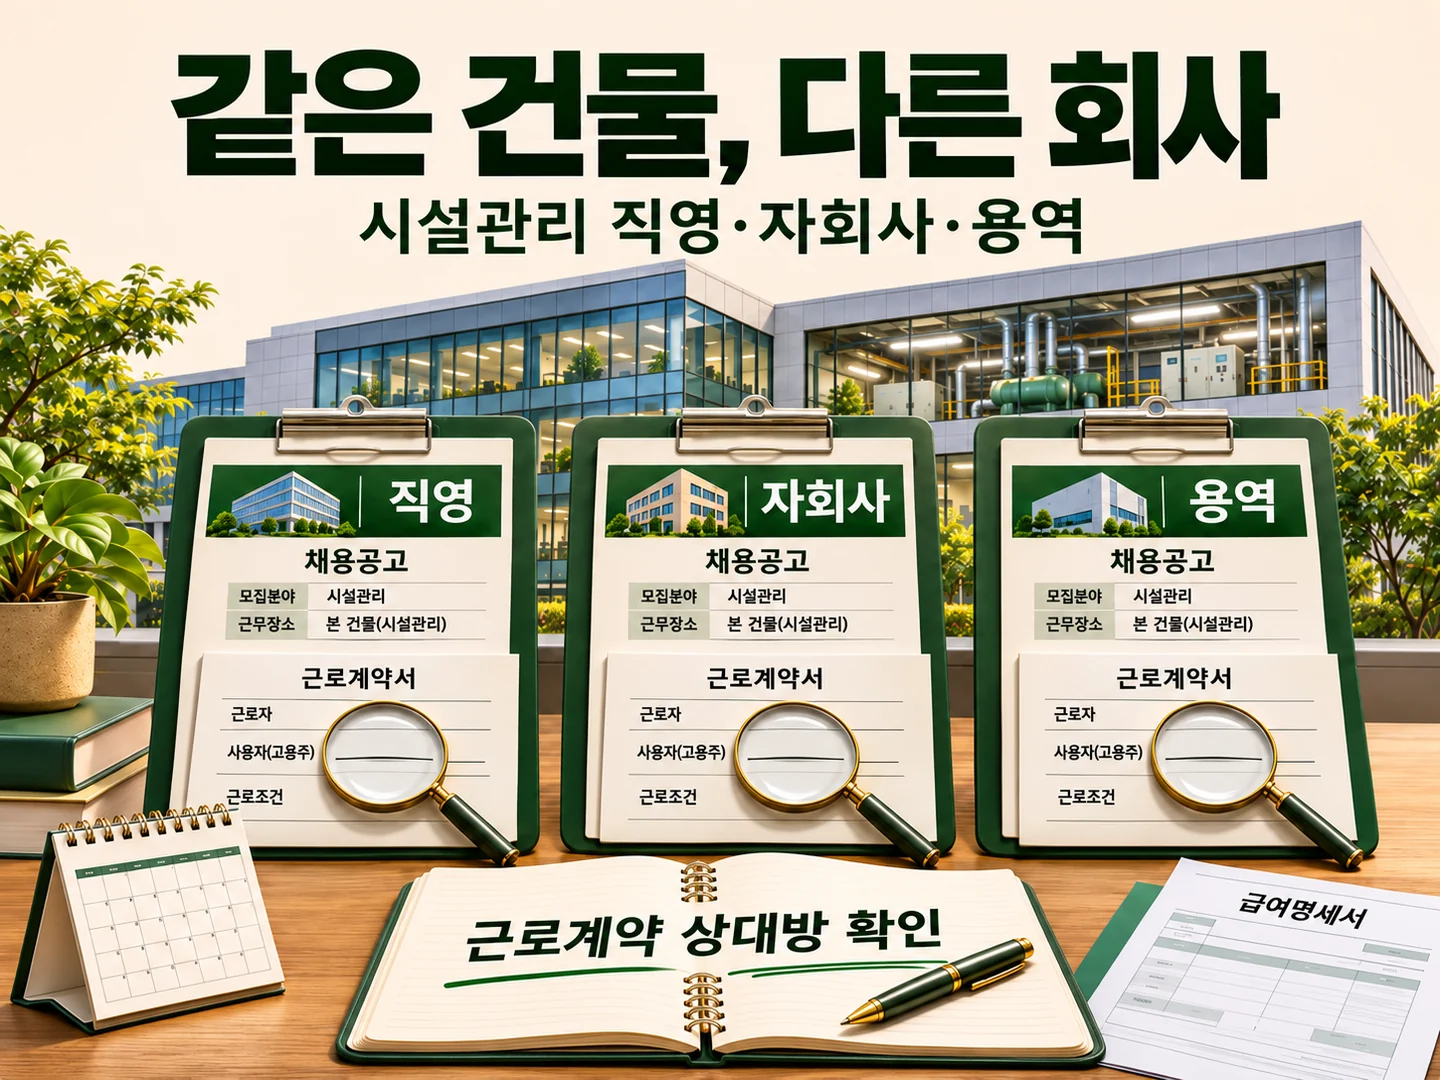
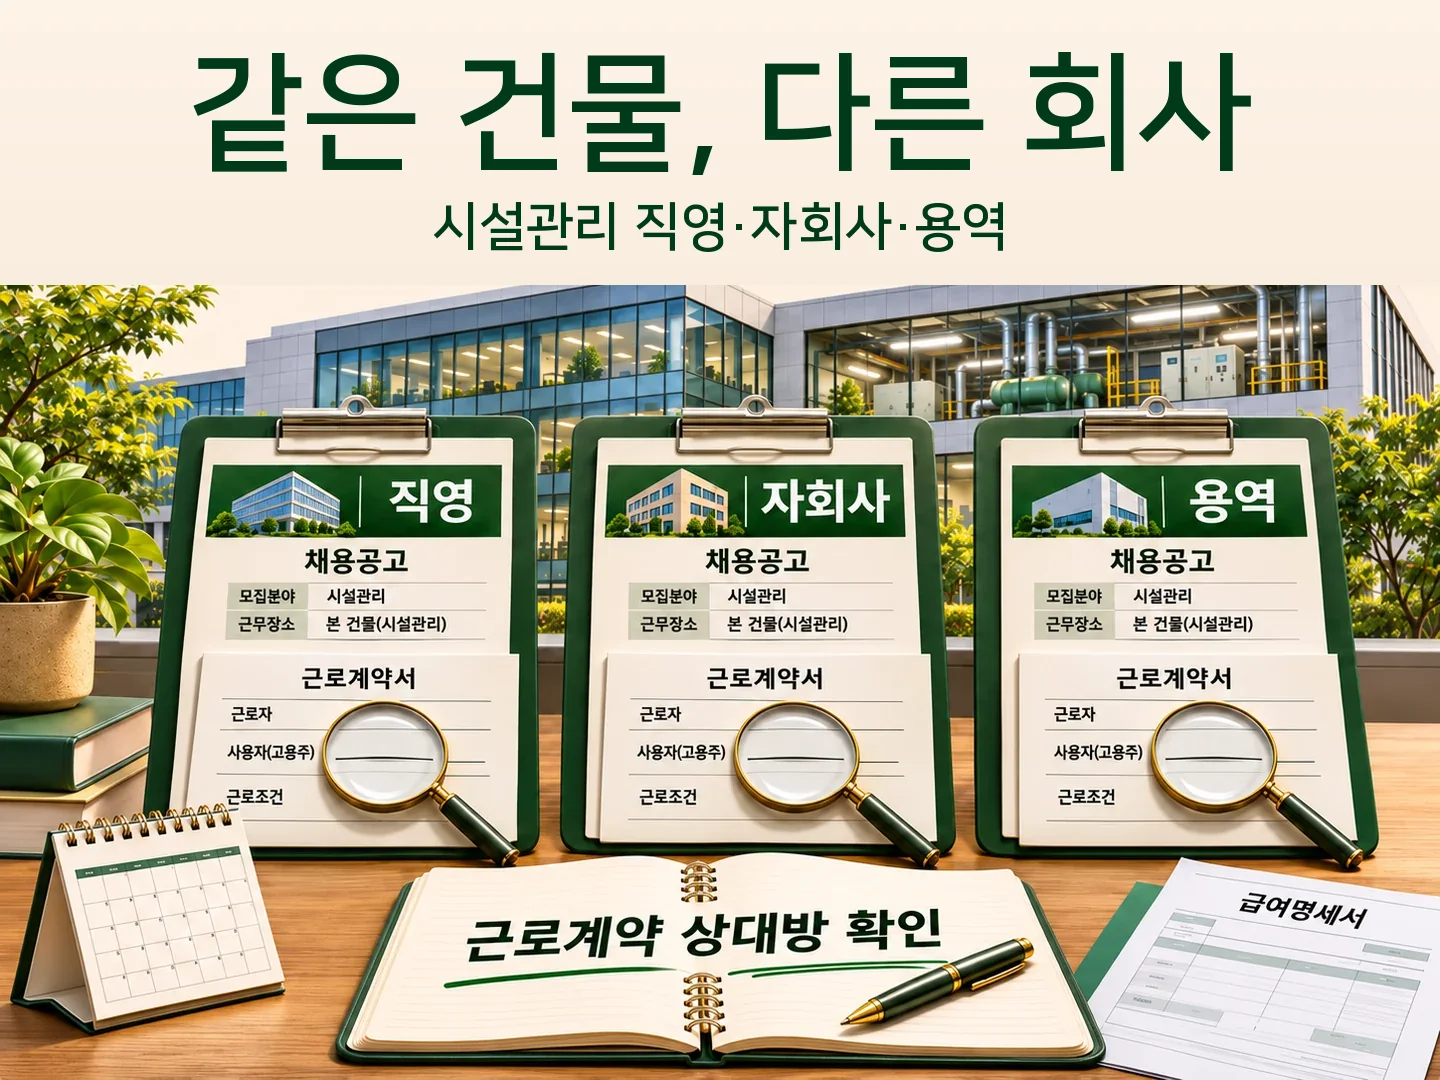
시설 대표 이미지 03 타이포 스타일 통일 (#269)
* style(facility): align employment hero typography with first-job

* test(facility): protect approved employment hero typography revision

* test(facility): refresh employment hero pictogram baseline

Changed region(s): [[0.125, 0.0306, 0.9688, 0.275], [0.0, 0.2139, 0.125, 0.275]]

diff --git a/docs/standards/facility-content-guide-v1.4.md b/docs/standards/facility-content-guide-v1.4.md
@@ -742,7 +742,7 @@ status: "reviewed"
 #### 5.13.11 대표 이미지 타이틀·부제 정렬 정본 (2026-11-10 보완)
 
 - **적용 범위:** `시설의 모든 것` 일반 대표 이미지(1440×1080, 4:3). 카드형 인포그래픽과 호병백마처럼 별도 시리즈 톤을 승인한 이미지는 자동 적용하지 않는다.
-- **기준 레퍼런스:** `employment-types` 대표 이미지의 상단 타이포 블록을 정본으로 삼는다. 동일 캔버스에서 타이틀·부제의 시작 위치와 안전영역을 우선 맞추고, 본문 일러스트는 각 글의 고유 구성을 유지한다.
+- **기준 레퍼런스:** `first-job` 대표 이미지의 상단 타이포 블록을 일반 시설 대표 이미지 정본으로 삼는다. 동일 캔버스에서 **폰트 계열·굵기·크기·타이틀/부제 좌표·헤더 높이**를 우선 맞추고, 본문 일러스트는 각 글의 고유 구성을 유지한다. `employment-types`도 2026-11-10 이 기준으로 재정렬했다.
 - **타이틀 영역:** 1440×1080 기준 중앙 정렬, 시각적 잉크 영역은 대략 `y=50~178px`, 좌우 안전영역은 최소 80px. 포레스트 그린 굵은 고딕을 사용하고 한 줄을 우선한다. 글자 수에 따라 약 82~132px 범위에서 축소하되, 지나치게 작게 맞추기보다 문구를 줄인다.
 - **부제 영역:** 중앙 정렬, 대략 `y=197~257px`, 좌우 안전영역은 최소 120px. 약 44~52px의 포레스트 그린 고딕을 사용한다. 일반 대표 이미지에서는 캡슐·붓터치 배경을 기본값으로 쓰지 않는다.
 - **정보 위계:** 상단은 `타이틀 → 부제` 두 단계로 끝낸다. `2026년 채용공고 사례` 같은 세 번째 설명 문구는 대표 이미지 상단에 추가하지 않고 본문·캡션으로 이동한다.
